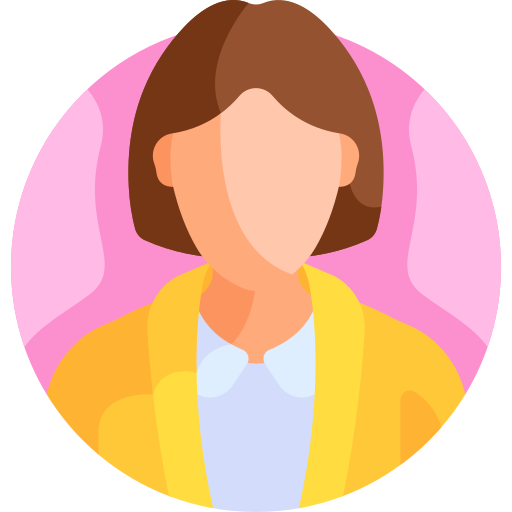
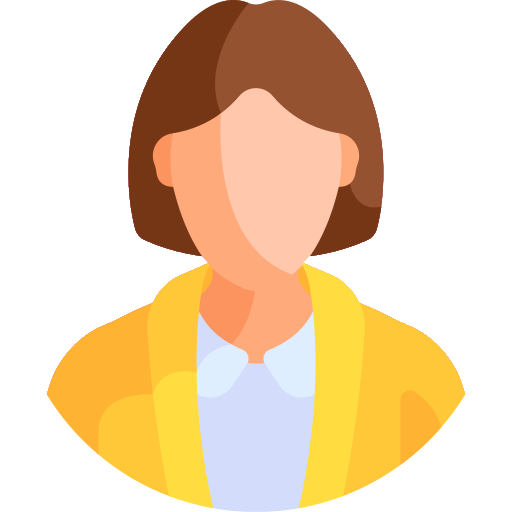
UI adjustment to Network for removing circular border, changed the options for Reaction Tool

Changed region(s): [[0.5938, 0.0625, 1.0, 0.7812], [0.0, 0.0625, 0.4062, 0.7812]]

diff --git a/src/app.py b/src/app.py
@@ -372,7 +372,7 @@ elif page == "🕸 Network Map":
     p_icon_url = get_icon_base64(p_icon_filename)
 
     nodes.append(Node(
-        id="MAIN", label=p_name, size=50, shape="circularImage", 
+        id="MAIN", label=p_name, size=50, shape="image", 
         image=p_icon_url,
         font=font_style, x=0, y=0, fixed=True
     ))
@@ -413,7 +413,7 @@ elif page == "🕸 Network Map":
         lx, ly = get_coords(current_idx, total, radius)
         current_idx += 1
         
-        nodes.append(Node(id=node_id, label=raw_name, size=40, shape="circularImage", image=icon_url, font=font_style, x=lx, y=ly, fixed=True))
+        nodes.append(Node(id=node_id, label=raw_name, size=40, shape="image", image=icon_url, font=font_style, x=lx, y=ly, fixed=True))
         edges.append(Edge(source="MAIN", target=node_id, label=ally.get("Relation", "Ally"), color="#4CAF50", font=edge_font))
 
     # --- ASSET LOOP ---
@@ -436,7 +436,7 @@ elif page == "🕸 Network Map":
         current_idx += 1
         
         nodes.append(Node(
-            id=node_id, label=raw_name, size=35, shape="circularImage", 
+            id=node_id, label=raw_name, size=35, shape="image", 
             image=icon_url,
             font=font_style, x=lx, y=ly, fixed=True
         ))
@@ -1027,49 +1027,56 @@ elif page == "🗣 Reaction Tool":
     
     # Template Library for Sub-Options
     REACTION_TEMPLATES = {
-        "👤 Individual Perspective": [
+        "👤 Individual / Personal": [
             "Internal Monologue / Private Thoughts",
             "Personal Diary / Journal Entry",
             "Direct Speech / Live Reaction",
-            "Formal Report / Debrief",
-            "Private Letter / Correspondence"
+            "Private Letter / Correspondence",
+            "Prayer / Meditation / Communion"
         ],
-        "🕵 Private Discussion": [
-            "Boardroom Meeting / Secret Summit",
-            "Private Conversation",
-            "Secured Radio / Comms Chatter",
-            "Safehouse Briefing",
-            "Encrypted Group Chat",
-            "Private Group Chat"
+        "🏛 Political / Bureaucratic": [
+            "Official Decree / Executive Order",
+            "Senate / Council Debate",
+            "Diplomatic Cable / Envoy Message",
+            "Internal Memo / Briefing Document",
+            "Propaganda Broadcast / Public Statement"
         ],
-        "🌐 Modern Internet": [
-            "Anonymous Imageboard (e.g. 4chan)",
-            "Social Media Feed (e.g. Twitter/X)",
-            "Video Comment Section (e.g. YouTube)",
-            "Niche Hobby Forum (e.g. Reddit/NMA)",
-            "Group Chat Leak (e.g. Discord/WhatsApp)"
+        "⚔ Military / Tactical": [
+            "Combat Report / Sitrep (Situation Report)",
+            "Strategy Meeting / War Room",
+            "Radio Chatter / Field Comms",
+            "Officer's Log / Captain's Log",
+            "Soldier's Gossip / Barracks Talk"
         ],
-        "📜 Fantasy / Medieval": [
-            "Tavern Rumors / Gossip",
-            "Town Crier Announcement",
-            "Royal Court Whispers",
-            "Adventurer's Guild Quest Board",
-            "Magic Message / Telepathy"
+        "🕵 Underground / Criminal": [
+            "Thieves' Cant / Code Words",
+            "Black Market Transaction Log",
+            "Encrypted Channel / Dark Web Post",
+            "Smuggler's Rumor / Tavern Whisper",
+            "Anonymous Tip / Leak"
         ],
-        "🚀 Sci-Fi / Cyberpunk": [
-            "Holonet Data Stream",
-            "Corporate News Flash",
-            "Hacker Encrypted Channel",
-            "Ship-to-Ship Comms",
-            "Android Memory Log"
+        "📢 Public Discourse / Media": [
+            "News Front Page / Headline",
+            "Social Media Feed / Viral Post",
+            "Town Crier / Public Announcement",
+            "Pundit Commentary / Opinion Piece",
+            "Commoner's Gossip / Watercooler Talk"
         ],
-        "📺 20th Century / Retro": [
-            "Newspaper Front Page",
-            "Radio Broadcast Transcript",
-            "Telegraph / Cable",
-            "Underground Pamphlet"
+        "🏢 Corporate / Economic": [
+            "Shareholder Report / Quarterly Earnings",
+            "Boardroom Meeting Minutes",
+            "Sales Pitch / Advertisement",
+            "Trade Guild Ledger / Manifest",
+            "Worker's Union Meeting"
         ],
-        "✨ Custom / Other": ["Manual Input"]
+        "🔬 Scientific / Arcane": [
+            "Lab Report / Research Log",
+            "Medical Diagnosis / Autopsy",
+            "Wizard's Grimoire / Spell Notes",
+            "AI System Log / Debug Output",
+            "Archaeological Discovery Note"
+        ],
+        "✨ Custom / Specific": ["Manual Input"]
     }
 
     if files:
@@ -1078,7 +1085,7 @@ elif page == "🗣 Reaction Tool":
         with c1:
             target_scene = st.selectbox("Select Context Scene:", files)
         with c2:
-            target_faction = st.text_input("Target Faction/Character:", placeholder="e.g. The peasantry, /pol/, The Galactic Senate")
+            target_faction = st.text_input("Target Faction/Character:", placeholder="e.g. The peasantry, forum post, The Galactic Senate")
 
         # Format Selection
         c3, c4 = st.columns([1, 1])
